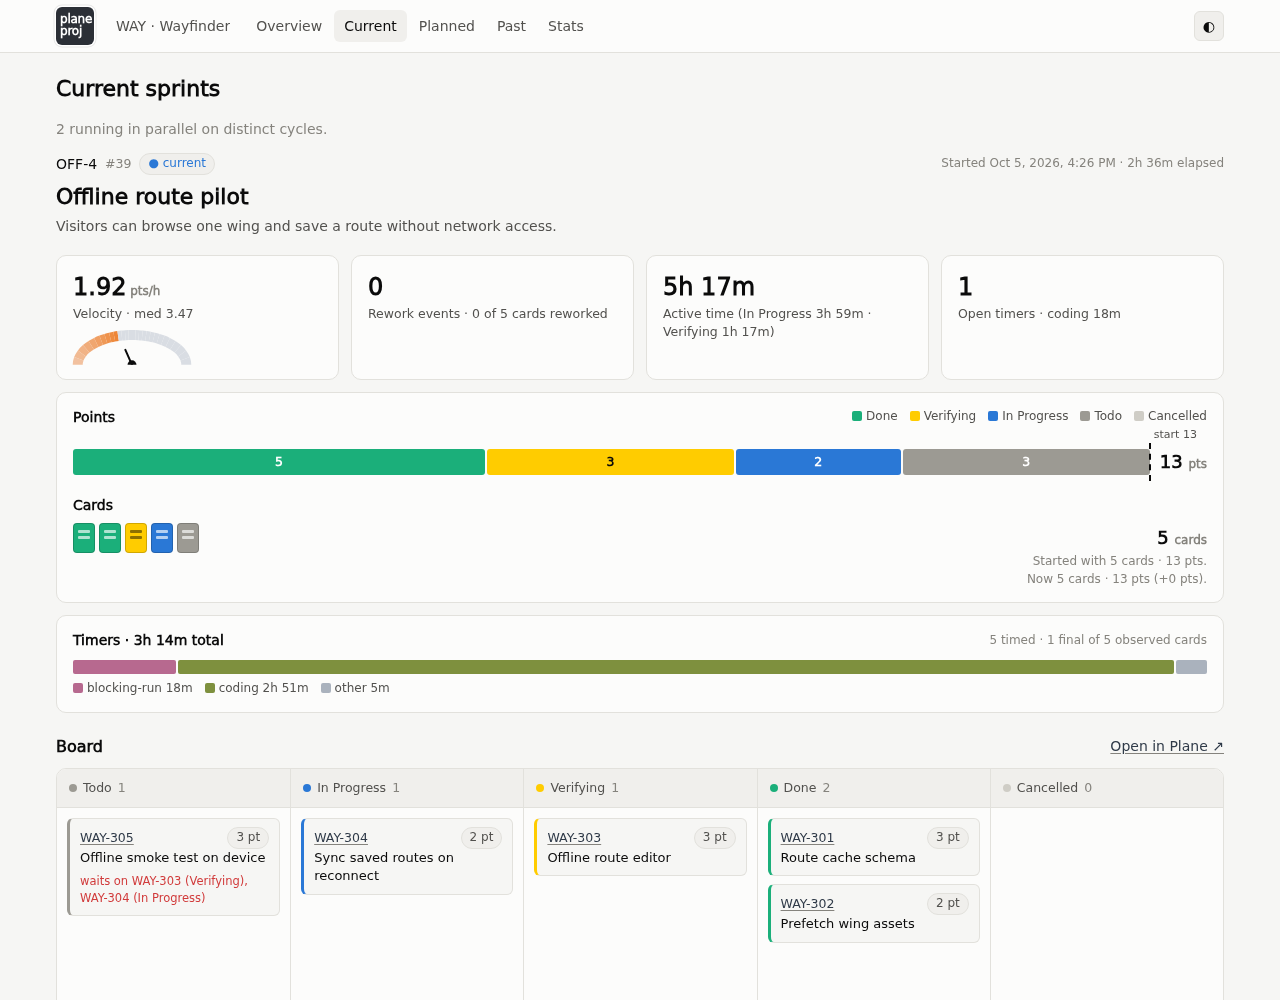
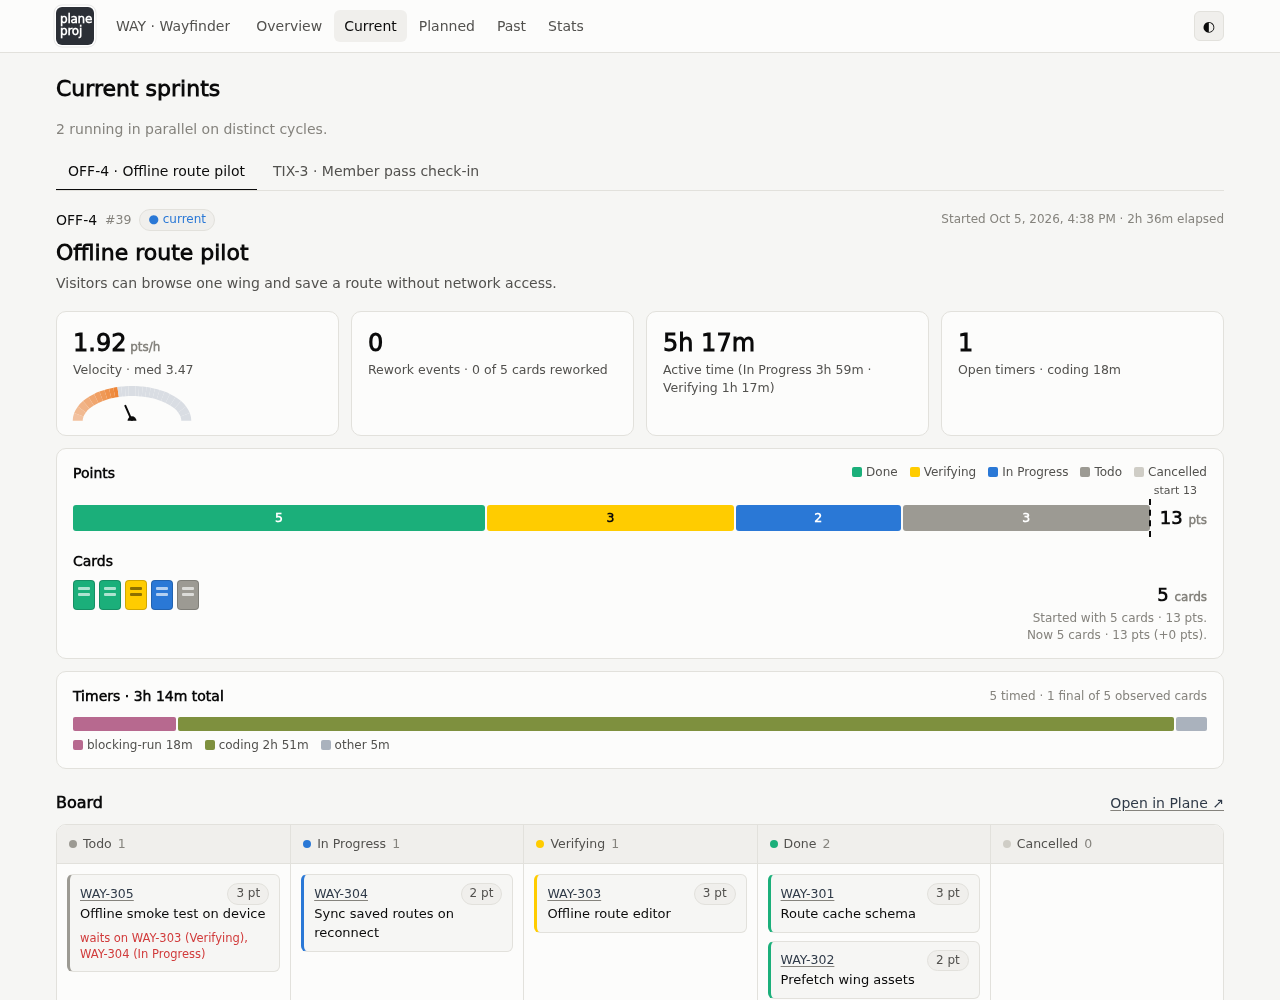
feat(web): one tab per sprint on the Current page
With two or more sprints running in parallel, the Current page stacked
every sprint in one long page. It now shows a tab per running sprint
(alias and title) and renders only the selected one. The tab lives in
the URL (#/current/<id>), so it survives reloads and live refreshes
and can be linked; an unknown or missing id opens the first sprint. A
single running sprint shows no tabs. On narrow screens the tab row
scrolls and the open tab is kept in view.

Verification: pytest, ruff check, rumdl check, and nix build pass.
Checked in a browser with invented demo data: clicking a tab switches
sprint and updates the URL, at 1280 px and 390 px. Gallery screenshot
and caption updated.

Claude-Session: https://claude.ai/code/session_01FgdVYP9r5FsBvYhXWxvHnT

diff --git a/src/plane_proj/web.html b/src/plane_proj/web.html
@@ -176,6 +176,11 @@ span.sk.inline { display: inline-block; vertical-align: middle; }
 .tip { position: fixed; pointer-events: none; z-index: 20; background: var(--text); color: var(--bg); padding: 6px 9px; border-radius: 6px; font-size: 12px; display: none; max-width: 300px; }
 .tabs { display: flex; gap: 4px; margin-bottom: 12px; }
 .tabs button.on { background: var(--accent); color: var(--surface); border-color: var(--accent); }
+/* one tab per running sprint */
+.stabs { display: flex; gap: 4px; overflow-x: auto; border-bottom: 1px solid var(--border); margin: 12px 0 18px; }
+.stabs a { padding: 8px 12px; border-radius: 0; border-bottom: 2px solid transparent; margin-bottom: -1px; color: var(--text-2); white-space: nowrap; text-decoration: none; }
+.stabs a:hover { text-decoration: none; color: var(--text); }
+.stabs a.on { background: none; border-bottom-color: var(--text); color: var(--text); font-weight: 600; }
 /* velocity dial */
 .dial { display: block; overflow: visible; }
 .gwrap { height: 34px; margin-top: 8px; }
@@ -454,8 +459,17 @@ V.overview = () => {
     ref: MEDV, refLabel: `median ${num(MEDV, 2)}`, tipFn: d => tipHead(d) + `${num(d.velocity, 2)} pts/h · ${d.elapsed}` })}</div>` : ''}`;
 };
 
-V.current = () => current.length ? (current.length > 1 ? `<h1>Current sprints</h1><p class="muted">${current.length} running in parallel on distinct cycles.</p>` : '') +
-  current.map(s => V.currentOne(s)).join('<hr style="border:0;border-top:2px solid var(--border);margin:40px 0">') : '<p class="muted">No sprint in progress.</p>';
+// Parallel sprints get one tab each; the tab is in the URL, so it survives
+// a reload and can be linked. An unknown or missing id opens the first.
+V.current = id => {
+  if (!current.length) return '<p class="muted">No sprint in progress.</p>';
+  if (current.length === 1) return V.currentOne(current[0]);
+  const s = current.find(c => c.sprint === id) || current[0];
+  return `<h1>Current sprints</h1><p class="muted">${current.length} running in parallel on distinct cycles.</p>
+  <nav class="stabs" aria-label="Current sprints">${current.map(c =>
+    `<a href="#/current/${c.sprint}" class="${c === s ? 'on' : ''}">${esc(c.alias || '#' + c.sprint)} · ${esc(c.title)}</a>`).join('')}</nav>`
+    + V.currentOne(s);
+};
 
 // Points and cards of a current sprint. Loading and loaded share one layout:
 // only the data-bearing pieces swap between placeholder and value.
@@ -722,8 +736,10 @@ V.stats = () => {
 // ===== router =====
 function render() {
   const [, view, arg] = (location.hash || '#/').split('/');
-  const fn = { '': V.overview, current: V.current, planned: V.planned, past: V.past, stats: V.stats, sprint: () => V.sprint(+arg) }[view || ''] || V.overview;
+  const fn = { '': V.overview, current: () => V.current(+arg), planned: V.planned, past: V.past, stats: V.stats, sprint: () => V.sprint(+arg) }[view || ''] || V.overview;
   $('#app').innerHTML = fn();
+  // A narrow screen scrolls the sprint tabs; keep the open one in view.
+  document.querySelector('.stabs a.on')?.scrollIntoView({ block: 'nearest', inline: 'nearest' });
   const sec = view === 'sprint' ? { current: 'current', planned: 'planned', completed: 'past' }[byId[+arg]?.status] : (view || '');
   document.querySelectorAll('#nav a').forEach(a => a.classList.toggle('on', a.getAttribute('href').split('/')[1] === sec));
   $('#navsel').value = '#/' + (sec || '');

diff --git a/docs/screenshots/README.md b/docs/screenshots/README.md
@@ -19,8 +19,9 @@ sprint, and recent velocity.
 
 ## Current sprints
 
-Points and cards by state, the board with what each card waits on, velocity,
-rework, active time, timers, and acceptance.
+One tab per sprint when several run in parallel. Points and cards by state,
+the board with what each card waits on, velocity, rework, active time, timers,
+and acceptance.
 
 ![Current sprints](current.png)
 
